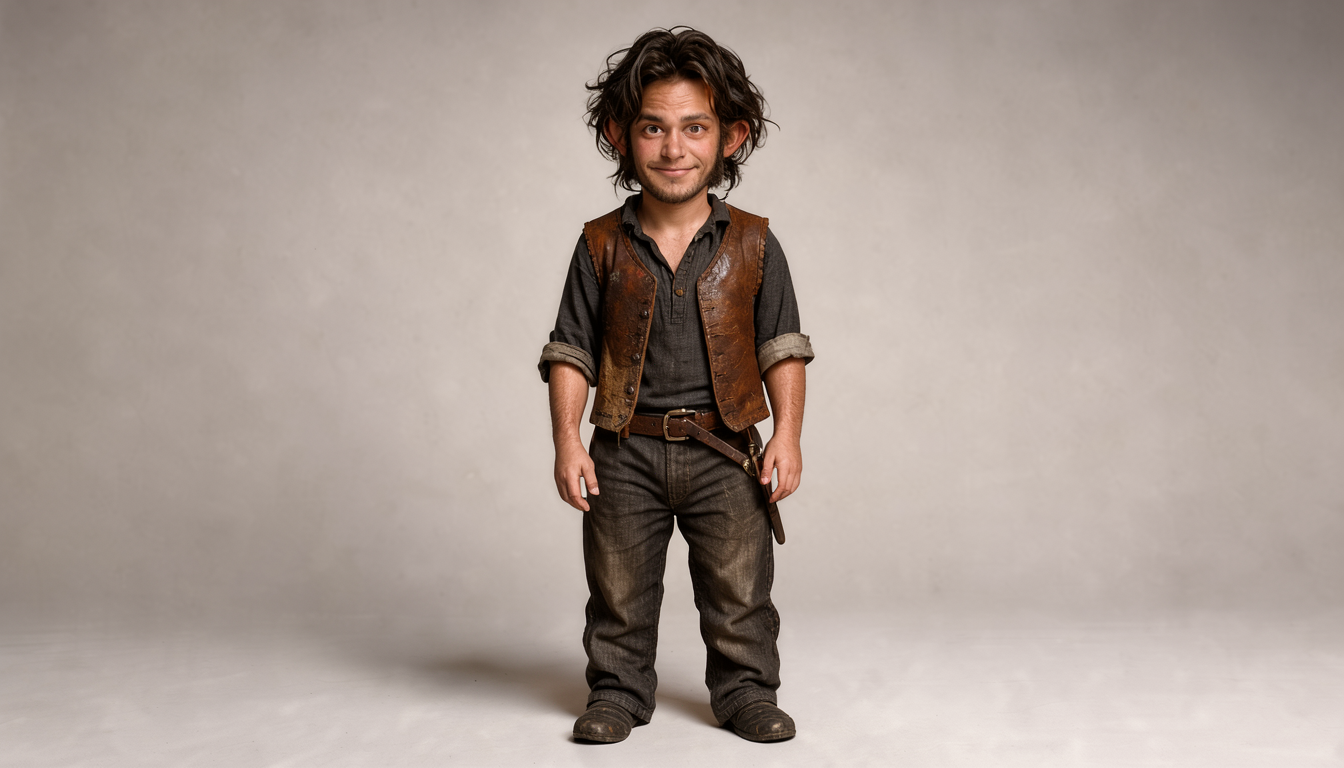
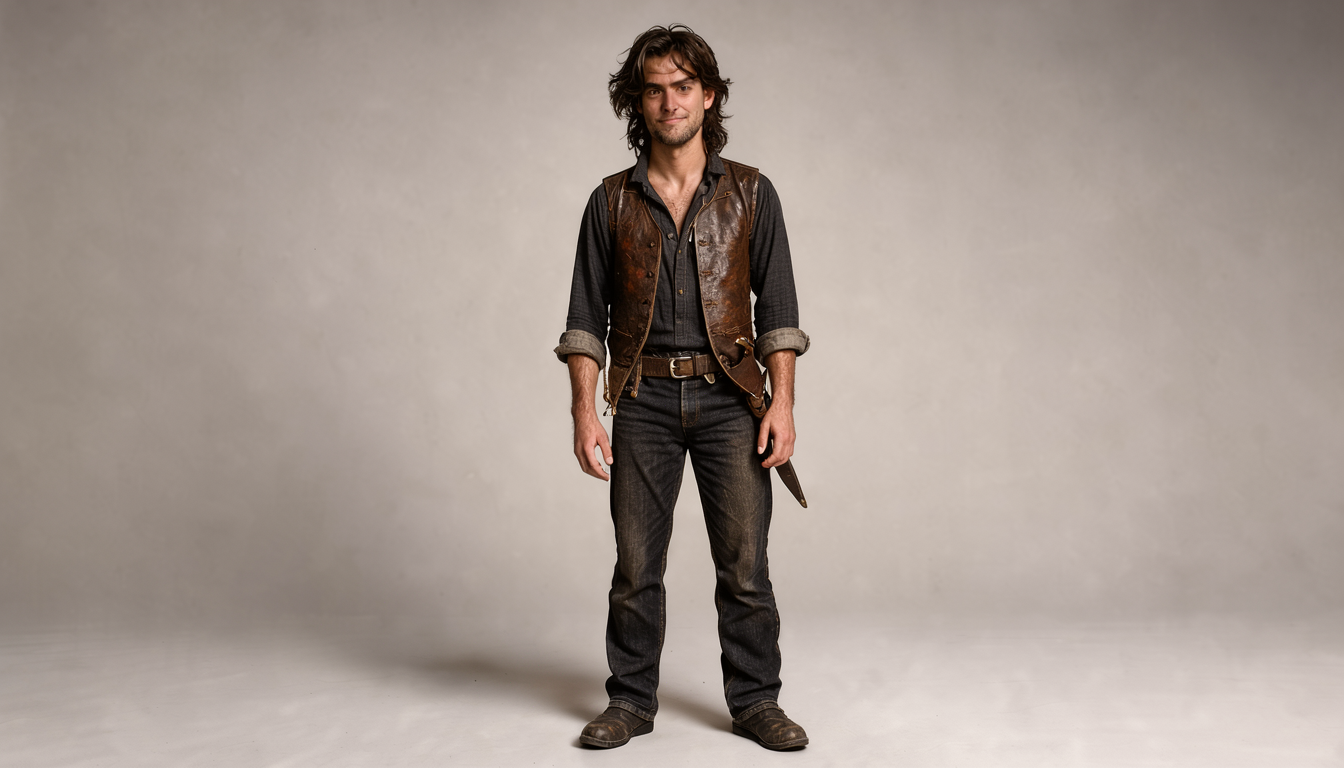
sheet-test: Shade lab batch 12 — halfling/ear-silence stress test (approved chunk deviation)

Changed region(s): [[0.375, 0.0312, 0.625, 1.0]]

diff --git a/tests/test_shadelab.py b/tests/test_shadelab.py
@@ -12,10 +12,10 @@ LAB_PROMPTS = os.path.join(LAB_DIR, "prompts.json")
 LAB_WORKFLOW_DIR = "workflows"
 SEEDS = [424242, 424243, 777001, 314159]
 KEYS = [f"shade_s{i}" for i in range(4)]
-# Batch 11 ladder: ear-silence test on the batch-6 seeds (same keys as
-# batches 6/7/8/10 for direct wording-only comparison)
-BATCH11_KEYS = ["shade_s2", "shade_s4", "shade_s5", "shade_s6"]
-BATCH11_SEEDS = [777001, 1857761984156622644, 6120004243239096470, 8620240391160718909]
+# Batch 12 ladder: halfling/ear-silence stress test on the batch-6 seeds
+# (same keys, so batch 11 vs 12 reads the silence question cleanly)
+BATCH12_KEYS = ["shade_s2", "shade_s4", "shade_s5", "shade_s6"]
+BATCH12_SEEDS = [777001, 1857761984156622644, 6120004243239096470, 8620240391160718909]
 SHADE_URL = RACE_URL[SLUG_RACE["shade"]]
 SHADE_CHUNK = (
     "young adult halfling man, mid-20s, mature adult face, lean build, messy shaggy dark brown "
@@ -41,22 +41,23 @@ class TestShadeLabDescriptions(unittest.TestCase):
 
     def test_revised_block_pins_fix(self):
         text, sources = self.load_block()
-        self.assertIn(SHADE_CHUNK, text, "Arm B shade chunk must appear verbatim")
-        self.assertIn(SCALED_CLAUSE, text, "scaled-down clause with all four ear bans missing")
-        # clause order: chunk -> scaled clause -> exactly two arms
-        self.assertLess(text.index(SHADE_CHUNK), text.index(SCALED_CLAUSE))
+        # batch 12 deviation (human-approved experiment): the locked chunk is
+        # surgically edited — "halfling" and its ear phrases removed. The full
+        # verbatim chunk must NOT appear; the replacements must.
+        self.assertNotIn(SHADE_CHUNK, text, "batch-12 block must not contain the full locked chunk")
+        self.assertIn("young adult man, mid-20s", text, "halfling stripped from the opener")
+        self.assertIn("messy shaggy dark brown hair falling over the sides of his head", text)
+        self.assertNotRegex(text, r"(?i)halfling", "batch 12 names no halfling anywhere")
+        self.assertNotRegex(text, r"(?i)\bears?\b", "batch 12 names no ears (beard is not an ear)")
+        self.assertIn(SCALED_CLAUSE, text, "scaled clause missing")
+        # clause order: edited opener -> scaled clause -> exactly two arms
+        self.assertLess(text.index("young adult man, mid-20s"), text.index(SCALED_CLAUSE))
         self.assertLess(text.index(SCALED_CLAUSE), text.index("exactly two arms"))
         self.assertEqual(text.count("exactly two arms"), 1)
-        # batch 10 additions sit after the locked chunk (verbatim contract):
-        # species skin (sheet left it blank) + species-canon sideburns
-        self.assertIn("warm tan skin with a ruddy cast", text, "batch-10 species skin missing")
-        self.assertIn("long sideburns", text, "batch-10 species sideburns missing")
-        self.assertLess(text.index(SHADE_CHUNK), text.index("warm tan skin"))
-        # batch 11 ear-silence: the added clause must not name ears at all —
-        # only the locked chunk may mention them (verbatim contract)
-        post_chunk = text.split("belt dagger at hips,")[1]
-        self.assertNotRegex(post_chunk, r"(?i)ear",
-                            "batch-11 added text must be ear-silent")
+        # retained batch-10 additions: species skin (sheet left it blank) +
+        # species-canon sideburns, sitting after the edited opener
+        self.assertIn("warm tan skin with a ruddy cast", text, "species skin missing")
+        self.assertIn("long sideburns", text, "species sideburns missing")
         # batch 8 verdict stands: no ban words in the added clause (chunk's
         # "no beard" + addendum's "no shield" stay: verbatim + frame contract)
         for ban in ("NOT a baby", "NOT a toddler", "NOT a child", "no pointed tips",
@@ -85,13 +86,13 @@ class TestShadeLabPrompts(unittest.TestCase):
 
     def test_lab_prompts_schema(self):
         prompts = self.load_prompts()
-        self.assertEqual(list(prompts), BATCH11_KEYS, "lab keys must be the batch-11 ladder in order")
+        self.assertEqual(list(prompts), BATCH12_KEYS, "lab keys must be the batch-12 ladder in order")
         _, sources = TestShadeLabDescriptions().load_block()
-        for i, key in enumerate(BATCH11_KEYS):
+        for i, key in enumerate(BATCH12_KEYS):
             entry = prompts[key]
             self.assertEqual(list(entry.keys()), PROMPT_KEYS, f"{key} key mismatch")
             self.assertEqual(entry["arm"], "C")
-            self.assertEqual(entry["seed"], BATCH11_SEEDS[i], f"{key} seed mismatch")
+            self.assertEqual(entry["seed"], BATCH12_SEEDS[i], f"{key} seed mismatch")
             self.assertEqual(entry["frame"], FRAME_C)
             self.assertTrue(entry["prompt"].startswith(FRAME_C + " " + ADDENDUM), f"{key} frame/addendum order")
             self.assertIn(entry["output"], (None, f"img/{key}.png"), f"{key} output not null-or-recorded")
@@ -157,9 +158,9 @@ class TestShadeLabPrompts(unittest.TestCase):
 
         stems = [os.path.splitext(os.path.basename(p))[0] for p in _glob.glob("workflows/shadelab_*.json")]
         found = {s.removeprefix("shadelab_") for s in stems}
-        self.assertEqual(found, set(BATCH11_KEYS), f"lab workflow set mismatch: {found}")
+        self.assertEqual(found, set(BATCH12_KEYS), f"lab workflow set mismatch: {found}")
         prompts = self.load_prompts() if os.path.exists(LAB_PROMPTS) else None
-        for key in BATCH11_KEYS:
+        for key in BATCH12_KEYS:
             with open(f"workflows/shadelab_{key}.json", encoding="utf-8") as f:
                 g = json.load(f)
             seeds = [n["inputs"][k] for n in g.values() for k in ("seed", "noise_seed") if k in n.get("inputs", {})]

diff --git a/character-bible/sheet-test/shade-lab/descriptions.md b/character-bible/sheet-test/shade-lab/descriptions.md
@@ -6,7 +6,7 @@ ear bans (chunk untouched; additions around it).
 
 ## Shade (shade)
 
-young adult halfling man, mid-20s, mature adult face, lean build, messy shaggy dark brown hair falling over and covering his ears, ears small and rounded beneath it, light stubble, no beard, warm brown eyes, subtle sly closed-mouth expression, worn dark linen shirt with rolled sleeves, scuffed brown leather vest, belt dagger at hips, warm tan skin with a ruddy cast, long sideburns, small adult stature about three feet tall, full-size adult human features scaled down uniformly, exactly the same head-to-body proportions as a full-size grown man, he is a full-grown man who happens to stand three feet tall, enlarged to six feet he would be indistinguishable from an ordinary human man, small adult head, thick shaggy hair covering the sides of his head completely, small skull structure, sleek adult facial proportions, exactly two arms
+young adult man, mid-20s, mature adult face, lean build, messy shaggy dark brown hair falling over the sides of his head, light stubble, no beard, warm brown eyes, subtle sly closed-mouth expression, worn dark linen shirt with rolled sleeves, scuffed brown leather vest, belt dagger at hips, warm tan skin with a ruddy cast, long sideburns, small adult stature about three feet tall, full-size adult human features scaled down uniformly, exactly the same head-to-body proportions as a full-size grown man, he is a full-grown man who happens to stand three feet tall, enlarged to six feet he would be indistinguishable from an ordinary human man, small adult head, thick shaggy hair covering the sides of his head completely, small skull structure, sleek adult facial proportions, exactly two arms
 
 Sources:
 - character-bible/Sheets/Shade.pdf

diff --git a/character-bible/sheet-test/shade-lab/README.md b/character-bible/sheet-test/shade-lab/README.md
@@ -22,7 +22,8 @@ the batch commit); only the latest set lives in `workflows/`.
 | batch8 | _(this commit)_ | Ban-strip test of Gemini's backfire claim: block-level NOT/no bans removed (chunk "no beard" + addendum "no shield" stay: verbatim + frame contract) — decisive pair vs batch 7, same seeds | same s2/s4/s5/s6 |
 | batch9 | _(this commit)_ | 20-seed survey on the ban-free block (master list seed 20261102): hit-rate read on the best wording so far | shade_r01–r20 (fixed random list in `tests/test_shadelab.py`) |
 | batch10 | `5ce6e45` | Gemini-merge additions (species skin, sideburns, tighter ear phrasing), ban-free kept, on batch-6 seeds — s2 is a three-way control (batches 6/8/10 wording × seed 777001) | shade_s2/s4/s5/s6 |
-| batch11 | _(this commit)_ | Ear-silence test: added clause names no ears (only the locked chunk may); hair-covering carries the constraint | same s2/s4/s5/s6 |
+| batch11 | `cf73594` | Ear-silence test: added clause names no ears (only the locked chunk may); hair-covering carries the constraint | same s2/s4/s5/s6 |
+| batch12 | _(this commit)_ | Halfling/ear-silence stress test (human-approved chunk deviation): locked chunk surgically edited — "halfling" out, ear phrases → hair-side wording; no `halfling`/`ear(s)` words anywhere | same s2/s4/s5/s6 |
 | batch10 verdict (human + agent review, 2026-11-02) | s2 best again (adult proportions, outfit right) but ears still protrude sideways; s4 reads teen/child; s5 still baby-giant-head; s6 grew a full beard against "no beard" and dropped the gray studio backdrop for white — ear wording moved nothing in any of the four | — |
 
 Human verdicts so far: batch 2 `shade_s2` closest on head size; ears still

diff --git a/character-bible/sheet-test/shade-lab/batches/batch12/descriptions.md b/character-bible/sheet-test/shade-lab/batches/batch12/descriptions.md
@@ -1,0 +1,14 @@
+# Shade Lab — revised block for the four-seed wording test
+
+Single block source for `shade-lab`. The Arm B Shade block verbatim, plus
+the accepted fix: scaled-down-adult framing and the bible's NEVER-list
+ear bans (chunk untouched; additions around it).
+
+## Shade (shade)
+
+young adult man, mid-20s, mature adult face, lean build, messy shaggy dark brown hair falling over the sides of his head, light stubble, no beard, warm brown eyes, subtle sly closed-mouth expression, worn dark linen shirt with rolled sleeves, scuffed brown leather vest, belt dagger at hips, warm tan skin with a ruddy cast, long sideburns, small adult stature about three feet tall, full-size adult human features scaled down uniformly, exactly the same head-to-body proportions as a full-size grown man, he is a full-grown man who happens to stand three feet tall, enlarged to six feet he would be indistinguishable from an ordinary human man, small adult head, thick shaggy hair covering the sides of his head completely, small skull structure, sleek adult facial proportions, exactly two arms
+
+Sources:
+- character-bible/Sheets/Shade.pdf
+- https://www.dndbeyond.com/species/14-halfling
+- bible.md locked chunks (main checkout)
